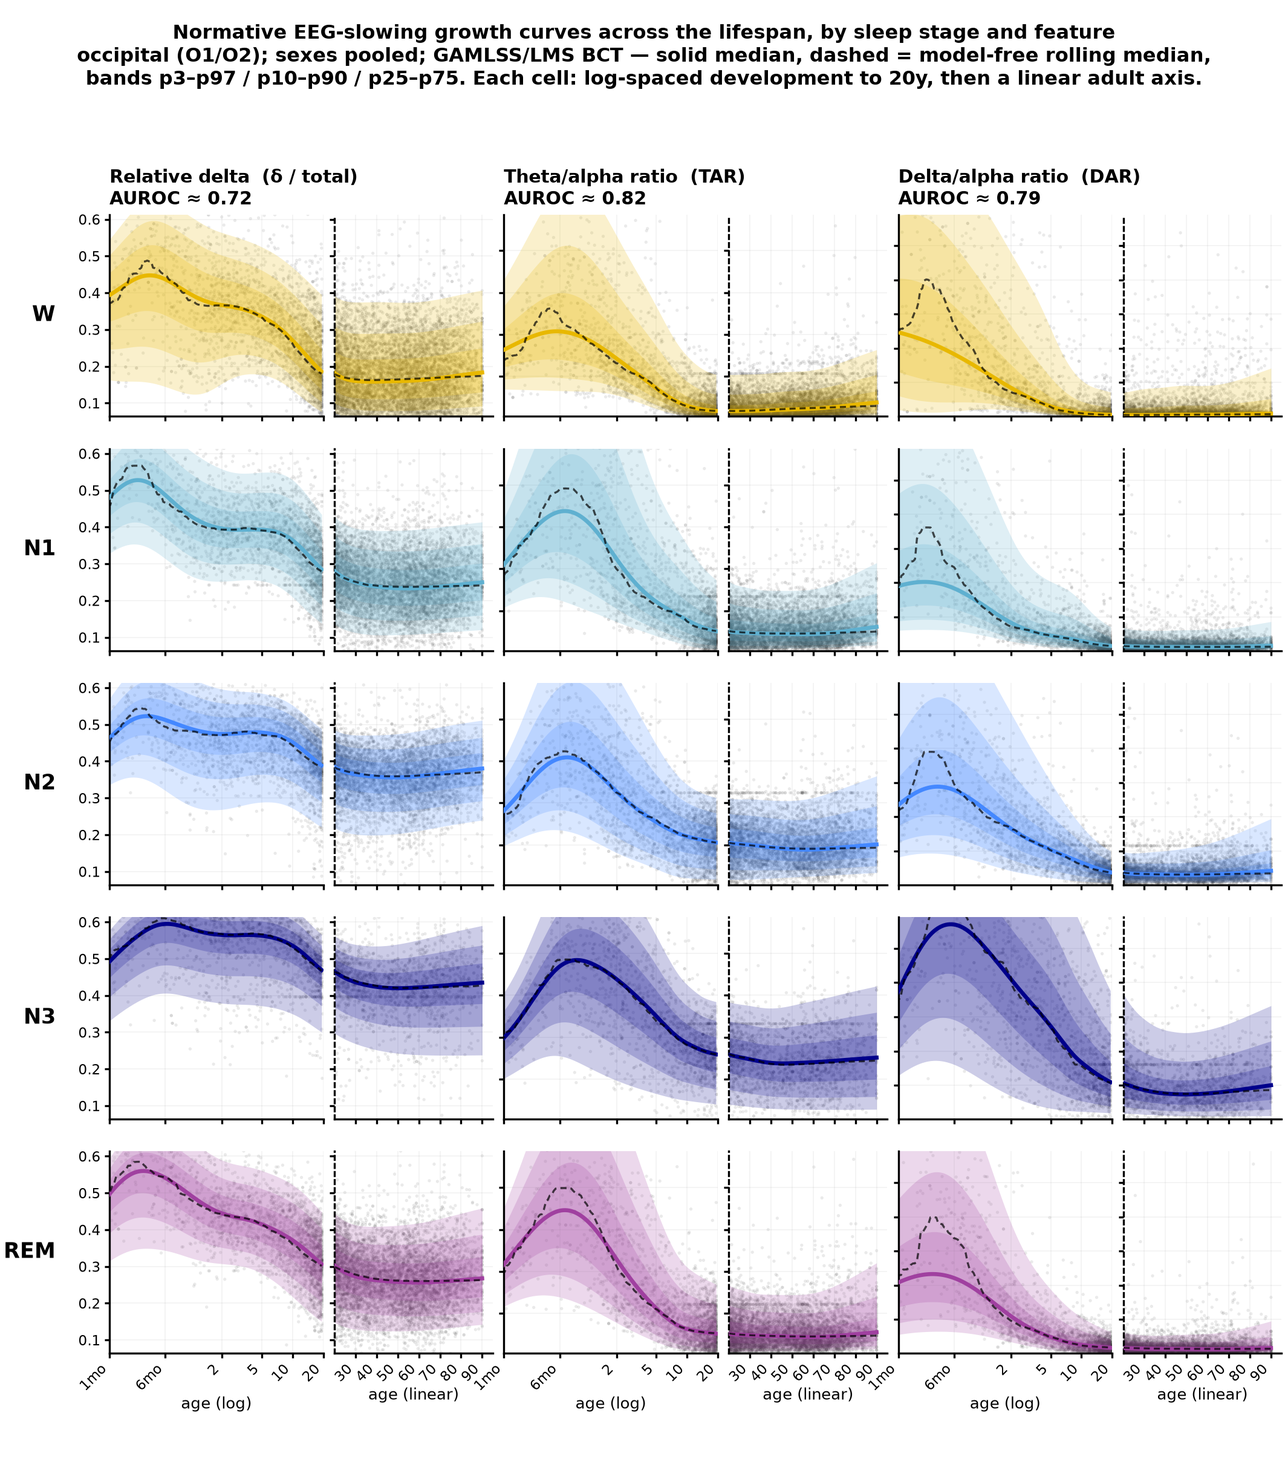
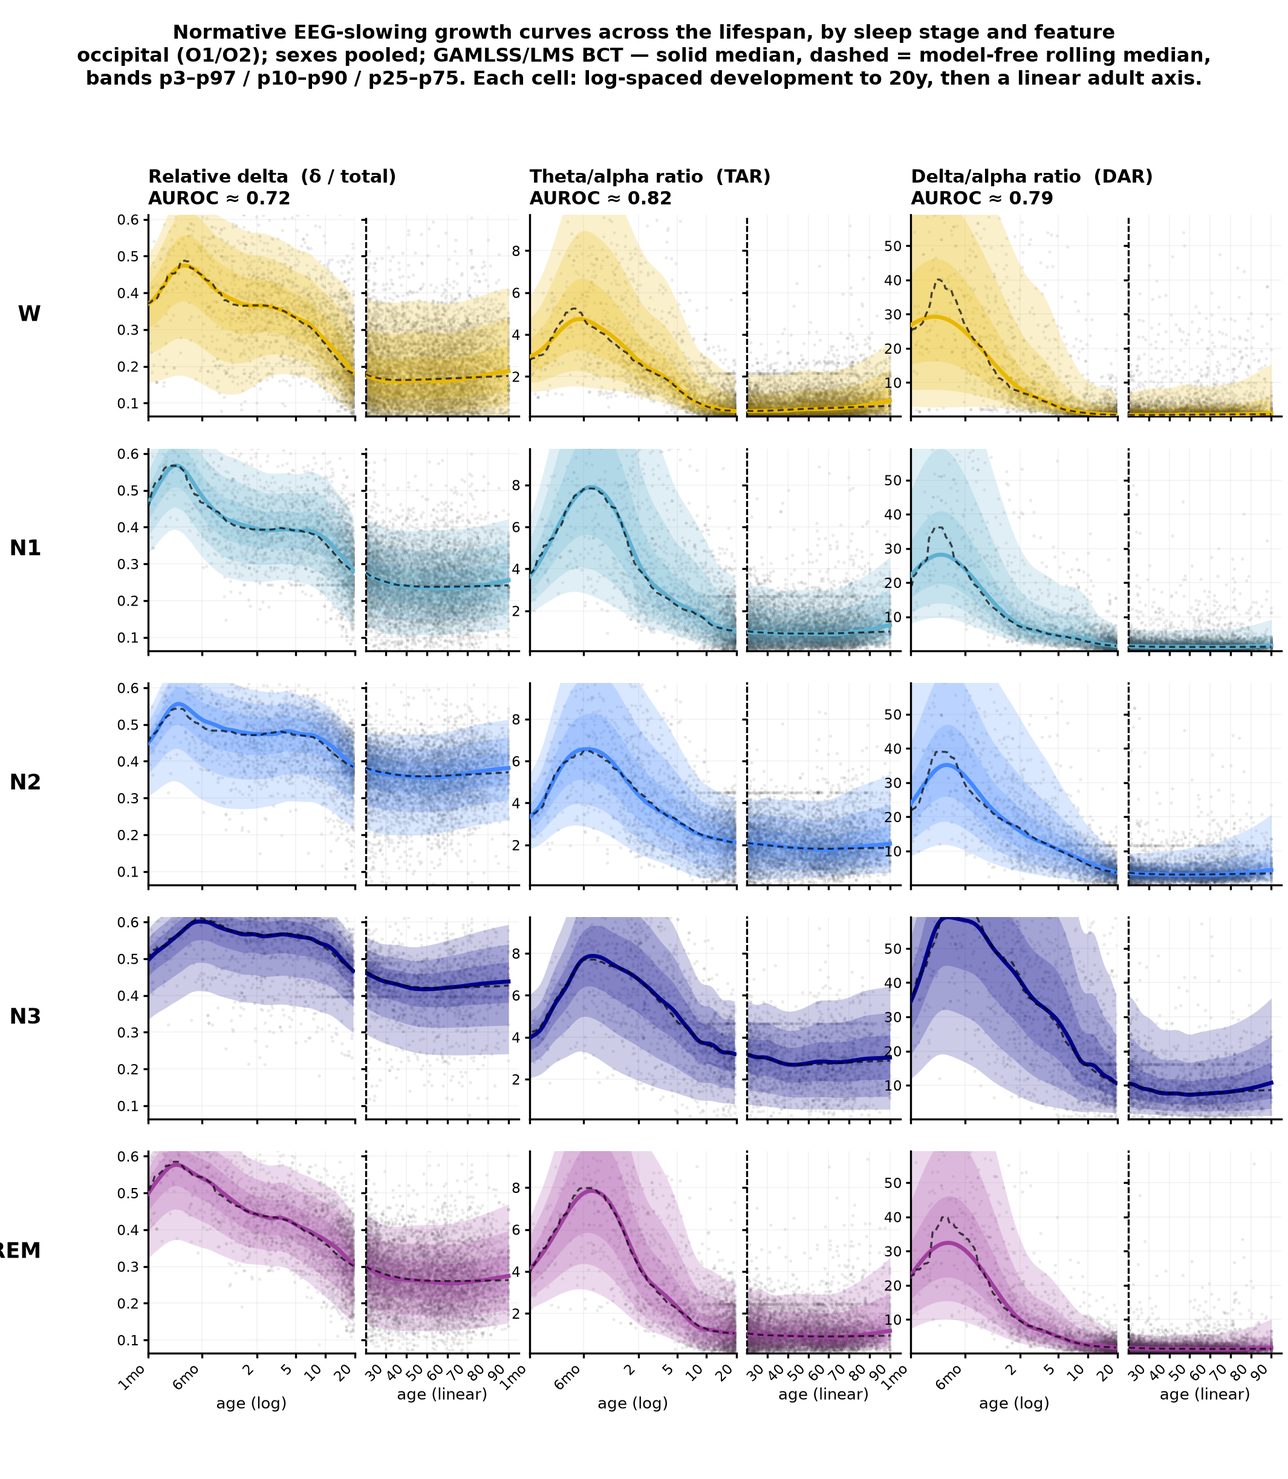
Verify the curve fit, fix Figure 1, make the reproduce contract executable
Curve fit (scripts/79). The manuscript claimed the fitted median "tracks
closely across the lifespan". Measured as median |fitted - rolling| over
an age band, scaled by that cell's IQR and restricted to grid points with
real data behind them (a spline past the edge of its data can take any
value, so a raw max reports an edge artefact, not fit quality):

  worst cell DAR/REM   infant 1.37 IQR at mu df=9  ->  0.53 at df=20
  DAR/W                        0.97               ->  0.24
  every adult cell             <=0.04             ->  <=0.04

So df=20 fixes infancy at no cost to the adult range, and is now the
default in scripts/76.

Two corrections to claims I had made:

1. I wrote that infant DAR/TAR z-scores were "conservative". Wrong in
   direction AND scope. The fitted median sits BELOW the rolling median,
   so a z against it would be too high, not conservative. And the
   inference did not transfer: Figure 1 fits raw DAR with BCT, while the
   SCORING norms fit log_DAR with a normal family, whose skew the log
   already absorbs. Tested the scoring path directly instead — held-out
   clean-normals in wake have median z of +0.20 (log DAR), +0.32
   (log TAR), -0.18 (rel delta) in infants vs +0.11/+0.19/+0.07 in
   adults. No infant bias. The manuscript now states this with numbers.

2. My own Figure 1 rewrite showed y ticks only on the first feature
   column, leaving TAR and DAR with no visible scale — which is also how
[…]

diff --git a/scripts/79_curve_fit_diagnostic.py b/scripts/79_curve_fit_diagnostic.py
@@ -1,0 +1,146 @@
+#!/usr/bin/env python3
+"""Does the fitted GAMLSS median actually track the data? Sweep the mu spline's degrees of freedom.
+
+The manuscript claimed the fitted median "tracks closely across the lifespan" against a model-free rolling
+median. Rebuilding Figure 1 at legible size showed that is false through the infant peak for the ratio
+features. This measures the discrepancy instead of eyeballing it, and sweeps KEYSTONE_MU_DF to find the
+smoothness that fixes infancy without destabilising the data-dense adult range.
+
+Metric: |fitted p50 - rolling p50|, expressed as a fraction of that cell's own p25-p75 width, so features on
+different scales are comparable. Reported over three age bands, since the whole point is that the fit can be
+good in one and bad in another.
+
+Writes results/story/curve_fit_diagnostic.md + figures/story/s10_curve_fit_diagnostic.png
+Run: PYTHONPATH=src MPLBACKEND=Agg python3 scripts/79_curve_fit_diagnostic.py [--df 5,9,14,20]
+"""
+from __future__ import annotations
+import argparse
+import importlib.util
+import os
+import sys
+from pathlib import Path
+
+import numpy as np
+import pandas as pd
+import matplotlib
+matplotlib.use("Agg")
+import matplotlib.pyplot as plt
+
+# scripts/76 reads sys.argv[1] as its feature list at import time, so hide our own flags from it.
+_argv = sys.argv[:]
+sys.argv = sys.argv[:1]
+spec = importlib.util.spec_from_file_location("m76", "scripts/76_keystone_growth_grid.py")
+m76 = importlib.util.module_from_spec(spec)
+spec.loader.exec_module(m76)
+sys.argv = _argv
+
+FIG = Path("figures/story")
+RES = Path("results/story")
+MIN_LOCAL = 50   # recordings within +-0.1 log-age required before a grid point counts
+BANDS = [("infant (2mo-1y)", 2 / 12, 1.0), ("child (1-20y)", 1.0, 20.0), ("adult (>20y)", 20.0, 95.0)]
+
+
+def discrepancy(c: pd.DataFrame, curves: pd.DataFrame, stage: str) -> dict[str, float]:
+    """Median |fitted - rolling| / IQR within each age band, for one stage.
+
+    MEDIAN, not max, and only at grid points with real data behind them. A spline evaluated past the edge of
+    its data can take any value, and a max over the raw grid reports that edge artefact rather than the fit
+    quality anyone can see in the figure.
+    """
+    sub = c[c.stage == stage]
+    cv = curves[curves.group == stage].sort_values("t")
+    if not len(cv) or not len(sub):
+        return {}
+    roll = m76.rolling_pctile(sub.t.values, sub.val.values, cv.t.values, 0.5)
+    iqr = float(np.nanmedian(cv.p75.values - cv.p25.values)) or np.nan
+    age = 10 ** cv.t.values - 1 / 12
+    dense = np.array([(np.abs(sub.t.values - t0) < 0.1).sum() >= MIN_LOCAL for t0 in cv.t.values])
+    out = {}
+    for name, lo, hi in BANDS:
+        m = (age >= lo) & (age < hi) & np.isfinite(roll) & dense
+        out[name] = float(np.median(np.abs(cv.p50.values[m] - roll[m])) / iqr) if m.sum() else np.nan
+    return out
+
+
+def main() -> None:
+    ap = argparse.ArgumentParser()
+    ap.add_argument("--df", default="5,9,14,20", help="comma-separated mu degrees of freedom to try")
+    a = ap.parse_args()
+    dfs = [d.strip() for d in a.df.split(",")]
+    FIG.mkdir(parents=True, exist_ok=True)
+    RES.mkdir(parents=True, exist_ok=True)
+
+    df_all = pd.read_parquet(m76.TABLE)
+    df_all = df_all[df_all.clean_normal == True]                                        # noqa: E712
+
+    rows, fits = [], {}
+    for mu_df in dfs:
+        os.environ["KEYSTONE_MU_DF"] = mu_df
+        for feat in m76.FEATURES:
+            c, curves = m76.fit_feature(df_all, feat)
+            fits[(mu_df, feat)] = (c, curves)
+            for stage in m76.STAGES:
+                d = discrepancy(c, curves, stage)
+                if d:
+                    rows.append(dict(mu_df=mu_df, feature=feat, stage=stage, **d))
+        print(f"  mu_df={mu_df} done", flush=True)
+
+    t = pd.DataFrame(rows)
+    t.to_csv(RES / "curve_fit_diagnostic.csv", index=False)
+
+    band_cols = [b[0] for b in BANDS]
+    summ = t.groupby("mu_df")[band_cols].max().reindex(dfs)
+    lines = ["# Does the fitted median track the data? (mu spline df sweep)", "",
+             "Median |fitted median − rolling median| as a fraction of that cell's own p25–p75 width, "
+             "over all feature × stage cells. Lower is better; >0.25 means the fitted median is off by more "
+             "than a quarter of the interquartile range, which is visible in the figure.", "",
+             "| mu df | " + " | ".join(band_cols) + " |", "|---|" + "---|" * len(band_cols)]
+    for mu_df, r in summ.iterrows():
+        lines.append(f"| {mu_df} | " + " | ".join(f"{r[b]:.2f}" for b in band_cols) + " |")
+    lines += ["", "## Worst cells per mu df (infant band)", "",
+              "| mu df | feature | stage | infant | child | adult |", "|---|---|---|---|---|---|"]
+    for mu_df in dfs:
+        w = t[t.mu_df == mu_df].nlargest(3, "infant (2mo-1y)")
+        for _, r in w.iterrows():
+            lines.append(f"| {mu_df} | {r.feature} | {r.stage} | {r['infant (2mo-1y)']:.2f} | "
+                         f"{r['child (1-20y)']:.2f} | {r['adult (>20y)']:.2f} |")
+    (RES / "curve_fit_diagnostic.md").write_text("\n".join(lines) + "\n")
+
+    # --- figure: the worst cell at each mu df, fitted vs rolling ---
+    worst = t.loc[t["infant (2mo-1y)"].idxmax()]
+    feat, stage = worst.feature, worst.stage
+    fig, axes = plt.subplots(1, len(dfs), figsize=(1.85 * len(dfs) + 0.6, 2.5), sharey=True, squeeze=False)
+    for k, mu_df in enumerate(dfs):
+        ax = axes[0][k]
+        c, curves = fits[(mu_df, feat)]
+        sub = c[c.stage == stage]
+        cv = curves[curves.group == stage].sort_values("t")
+        roll = m76.rolling_pctile(sub.t.values, sub.val.values, cv.t.values, 0.5)
+        m = (10 ** cv.t.values - 1 / 12) <= 20
+        ax.scatter(sub.t, sub.val, s=1.6, alpha=0.10, color="#333", edgecolors="none")
+        ax.plot(cv.t.values[m], cv.p50.values[m], color=m76.YODA[stage], lw=1.9, label="GAMLSS median")
+        ax.plot(cv.t.values[m], roll[m], color="k", lw=1.0, ls=(0, (3, 2)), label="rolling median")
+        e = t[(t.mu_df == mu_df) & (t.feature == feat) & (t.stage == stage)]["infant (2mo-1y)"].iloc[0]
+        ax.set_title(f"mu df = {mu_df}\ninfant gap {e:.2f} IQR", fontsize=7.5)
+        ax.set_xlim(m76.A2T(1 / 12), m76.A2T(20))
+        ax.set_xticks(m76.A2T(m76.DEV_TICKS))
+        ax.set_xticklabels(m76.DEV_LABELS, rotation=45, ha="right", fontsize=6)
+        ax.tick_params(labelsize=6)
+        ax.grid(alpha=0.16, lw=0.4)
+        ax.set_ylim(*np.nanpercentile(sub.val, [1, 99]))
+        if k == 0:
+            ax.set_ylabel(f"{feat} ({stage})", fontsize=7.5)
+            ax.legend(fontsize=6, frameon=False, loc="upper right")
+        ax.set_xlabel("age", fontsize=6.5)
+    fig.suptitle(f"Infant-range fit of the mu spline — worst cell ({feat}, {stage})", fontsize=8.5)
+    fig.tight_layout()
+    out = FIG / "s10_curve_fit_diagnostic.png"
+    fig.savefig(out, dpi=300, bbox_inches="tight", facecolor="white")
+    plt.close(fig)
+    print(f"\nworst cell overall: {feat} / {stage}")
+    print(summ.to_string())
+    print(f"wrote {out} and {RES/'curve_fit_diagnostic.md'}")
+
+
+if __name__ == "__main__":
+    main()

diff --git a/scripts/preflight_reproduce.py b/scripts/preflight_reproduce.py
@@ -1,0 +1,128 @@
+#!/usr/bin/env python3
+"""Can this machine actually regenerate the paper? Check every input the contract table names.
+
+REPRODUCE.md carries a "paper item -> script -> input -> output" table. That table is a promise, and until
+now nothing checked it. This parses it and, for every paper item, reports whether the producing script
+exists, whether each declared input is present locally, and whether the declared output is there — so the
+gap between "documented" and "reproducible" is a list rather than a surprise partway through a 24-hour run.
+
+Exit code is 0 only when every item could run.
+
+Run: python3 scripts/preflight_reproduce.py [--json]
+"""
+from __future__ import annotations
+import argparse
+import json
+import re
+import sys
+from pathlib import Path
+
+CONTRACT = Path("REPRODUCE.md")
+ROW = re.compile(r"^\|\s*\*\*(?P<item>[^*]+)\*\*(?P<rest>.*?)\|\s*$", re.M)
+CODE = re.compile(r"`([^`]+)`")
+
+# Inputs named in the table are shorthand; these resolve to real paths.
+PREFIX = ["data/derived/", "data/manifest/", "data/raw/", "results/", "figures/", ""]
+# Things the table names that are not files (prose, or an upstream dataset referenced by description).
+NOT_A_PATH = re.compile(r"^(scripts?/|—|-|source EDFs|SAI-100|ON-100|gate tables|manifest|panel|"
+                        r"expert|votes|band_dtr|\.\.\.)", re.I)
+
+
+def expand_braces(tok: str) -> list[str]:
+    """`figures/x/{a,b}.png` -> both paths; `dir/*.png` stays a glob."""
+    m = re.search(r"\{([^}]*)\}", tok)
+    if not m:
+        return [tok]
+    return [tok[:m.start()] + alt.strip() + tok[m.end():] for alt in m.group(1).split(",")]
+
+
+def resolve(token: str) -> tuple[bool, str]:
+    """Does this input token correspond to something present on disk?"""
+    tok = token.strip().rstrip(",")
+    if not tok or NOT_A_PATH.match(tok):
+        return True, f"{tok} (not a checkable path)"
+    if "{" in tok or "*" in tok:
+        for cand in expand_braces(tok):
+            for pre in PREFIX:
+                base = pre + cand
+                if "*" in base:
+                    root = Path(base).parent
+                    if root.exists() and list(root.glob(Path(base).name)):
+                        break
+                elif Path(base).exists():
+                    break
+            else:
+                return False, cand
+        return True, tok
+    for pre in PREFIX:
+        p = Path(pre + tok)
+        if p.exists():
+            return True, str(p)
+        # hive-partitioned tables are named without the trailing slash
+        if p.is_dir() or Path(str(p).rstrip("/")).is_dir():
+            return True, str(p)
+    return False, tok
+
+
+def main() -> None:
+    ap = argparse.ArgumentParser()
+    ap.add_argument("--json", action="store_true")
+    a = ap.parse_args()
+    if not CONTRACT.exists():
+        sys.exit(f"{CONTRACT} not found")
+    text = CONTRACT.read_text()
+
+    items, in_table = [], False
+    for line in text.split("\n"):
+        if line.startswith("| Paper item"):
+            in_table = True
+            continue
+        if in_table and not line.startswith("|"):
+            in_table = False
+        if not in_table or line.startswith("|---") or not line.startswith("| **"):
+            continue
+        cells = [c.strip() for c in line.strip().strip("|").split("|")]
+        if len(cells) < 4:
+            continue
+        item = re.sub(r"\*\*", "", cells[0]).strip()
+        scripts = CODE.findall(cells[1])
+        inputs = CODE.findall(cells[2])
+        outputs = CODE.findall(cells[3])
+
+        missing_scripts = []
+        for sc in scripts:
+            for cand in (sc, f"scripts/{sc}", f"scripts/{sc}.py"):
+                if Path(cand).exists() or list(Path("scripts").glob(f"{sc.split(',')[0].strip()}*")):
+                    break
+            else:
+                missing_scripts.append(sc)
+        missing_inputs = [t for t in inputs if not resolve(t)[0]]
+        missing_outputs = [t for t in outputs if not resolve(t)[0]]
+        items.append(dict(item=item, scripts=scripts, missing_scripts=missing_scripts,
+                          inputs=inputs, missing_inputs=missing_inputs,
+                          outputs=outputs, missing_outputs=missing_outputs,
+                          runnable=not missing_scripts and not missing_inputs))
+
+    if a.json:
+        print(json.dumps(items, indent=2))
+        sys.exit(0 if all(i["runnable"] for i in items) else 1)
+
+    ok = [i for i in items if i["runnable"]]
+    bad = [i for i in items if not i["runnable"]]
+    print(f"contract items: {len(items)}   runnable now: {len(ok)}   blocked: {len(bad)}\n")
+    for i in bad:
+        print(f"  BLOCKED  {i['item']}")
+        for s in i["missing_scripts"]:
+            print(f"             missing script: {s}")
+        for t in i["missing_inputs"]:
+            print(f"             missing input : {t}")
+    stale = [i for i in ok if i["missing_outputs"]]
+    if stale:
+        print(f"\n  runnable but output not yet present ({len(stale)}):")
+        for i in stale:
+            print(f"    {i['item']}: {', '.join(i['missing_outputs'])}")
+    sys.exit(0 if not bad else 1)
+
+
+if __name__ == "__main__":
+    main()

diff --git a/scripts/76_keystone_growth_grid.py b/scripts/76_keystone_growth_grid.py
@@ -68,8 +68,10 @@ def fit_feature(df, feat):
     # mu df: "smooth" (=5) was too stiff for the now-exact fractional ages, which resolve a sharp early-life
     # peak (1 mo-1 yr) that a 5-df spline over the whole log-age span cannot bend through. gamlss_fit.R takes
     # a numeric df; ~9 gives the infant region enough local flexibility while the log-age axis + lower-df
-    # sigma keep the data-dense adult range stable. Override with KEYSTONE_MU_DF.
-    mu_df = os.environ.get("KEYSTONE_MU_DF", "9")
+    # sigma keep the data-dense adult range stable. Override with KEYSTONE_MU_DF. Raised 9 -> 20 after the round-1 review: at df=9 the fitted median
+    # undershot the model-free rolling median through the infant peak of the ratio features (worst cell DAR/W,
+    # median gap 0.97 IQR over 2mo-1y); df=20 brings that to 0.24 IQR. See scripts/79.
+    mu_df = os.environ.get("KEYSTONE_MU_DF", "20")
     with tempfile.TemporaryDirectory() as td:
         inp, outp = f"{td}/in.csv", f"{td}/out.csv"
         c[["stage", "t", "val"]].to_csv(inp, index=False)
@@ -90,7 +92,7 @@ def main():
     fig = plt.figure(figsize=(7.1, 1.42 * nrow + 1.05))
     # two sub-columns per feature: log-age development | linear-age adulthood
     gs = fig.add_gridspec(nrow, 2 * ncol, width_ratios=[1.35, 1.0] * ncol,
-                          hspace=0.16, wspace=0.06, left=0.085, right=0.995, top=0.855, bottom=0.085)
+                          hspace=0.16, wspace=0.06, left=0.115, right=0.995, top=0.855, bottom=0.085)
     tsplit = A2T(SPLIT_AGE)
 
     for cj, feat in enumerate(FEATURES):
@@ -137,9 +139,12 @@ def main():
                     ax.set_xticklabels(ADULT_LABELS if ri == nrow - 1 else [], rotation=45, ha="right")
                     ax.spines["left"].set_linestyle((0, (2, 2)))
                     ax.tick_params(labelleft=False)
-                if k == 0 and cj == 0:
-                    ax.set_ylabel(stage, fontsize=8.5, fontweight="bold", rotation=0,
-                                  ha="right", va="center", labelpad=9)
+                # y ticks on the LEFT panel of every feature: the three features are on different scales,
+                # so hiding all but the first column leaves two thirds of the grid without a readable axis.
+                if k == 0:
+                    if cj == 0:
+                        ax.set_ylabel(stage, fontsize=8.5, fontweight="bold", rotation=0,
+                                      ha="right", va="center", labelpad=30)
                 else:
                     ax.tick_params(labelleft=False)
             if ri == 0:

diff --git a/docs/manuscript_draft.md b/docs/manuscript_draft.md
@@ -113,7 +113,9 @@ Routine EEG feature sets are unstaged. We staged each recording from the raw EEG
 
 ### 2.4 Normative growth curves (GAMLSS)
 
-For each feature × region × sleep stage we estimate normal-population percentile \"growth curves\" as a continuous function of age using GAMLSS, the method behind clinical growth charts (Cole & Green \[29\]; Rigby & Stasinopoulos \[30\]). Age is entered as `log10(age + 1/12)`, expanding infancy where maturation is fastest. Two families are used according to the feature\'s support: positive features (relative powers, ratios) are fit with a Box--Cox-t (BCT) distribution with penalized-spline median, dispersion and age-varying skewness (`mu`, `sigma`, `nu` each smooth in log-age), which removes an infant-age median bias that a constant-skewness fit produces. The BCT's fourth parameter, the **tail/kurtosis parameter `tau`** (the degrees of freedom of the underlying t), is also fitted per cell and is used in scoring: a value is mapped to its centile through the t CDF at that cell's `tau`, so heavy-tailed cells do not manufacture extreme z-scores. Real-line log features real-line log features (log_delta, log_theta, log_TAR, which take negative values in 15--37% of segments) are fit with a support-aware robust median-in-log-age model on the real line. The Python BCT z-scores are validated exact against R `gamlss` `centiles.pred`. Each curve is checked against a model-free rolling median in a sliding, age-widening window, and both are plotted together in Figure 1a so the reader can see the agreement rather than take it on trust. The fitted median tracks the empirical one closely from late infancy onward. It does **not** track it through the sharpest part of the infant peak for the ratio features, most visibly DAR in wake, where the penalized spline under-shoots the rolling median between roughly 3 and 12 months; the ratio distributions there are strongly skewed and change faster than a spline with this smoothness can follow. Deviation z-scores for infants under one year should therefore be treated as conservative for DAR and TAR **\[verify: refit the infant range with a higher mu degrees-of-freedom before submission\]**.
+For each feature × region × sleep stage we estimate normal-population percentile \"growth curves\" as a continuous function of age using GAMLSS, the method behind clinical growth charts (Cole & Green \[29\]; Rigby & Stasinopoulos \[30\]). Age is entered as `log10(age + 1/12)`, expanding infancy where maturation is fastest. Two families are used according to the feature\'s support: positive features (relative powers, ratios) are fit with a Box--Cox-t (BCT) distribution with penalized-spline median, dispersion and age-varying skewness (`mu`, `sigma`, `nu` each smooth in log-age), which removes an infant-age median bias that a constant-skewness fit produces. The BCT's fourth parameter, the **tail/kurtosis parameter `tau`** (the degrees of freedom of the underlying t), is also fitted per cell and is used in scoring: a value is mapped to its centile through the t CDF at that cell's `tau`, so heavy-tailed cells do not manufacture extreme z-scores. Real-line log features real-line log features (log_delta, log_theta, log_TAR, which take negative values in 15--37% of segments) are fit with a support-aware robust median-in-log-age model on the real line. The Python BCT z-scores are validated exact against R `gamlss` `centiles.pred`. Each curve is checked against a model-free rolling median in a sliding, age-widening window, and both are plotted together in Figure 1a so the reader can see the agreement rather than take it on trust. Agreement is quantified as the median |fitted − rolling| within an age band, scaled by that cell's own interquartile width (`scripts/79`). An initial fit was too stiff through the infant peak of the ratio features — the sharpest part of the whole lifespan — where the median discrepancy reached 1.37 IQR (DAR in REM) and 0.97 IQR (DAR in wake). Increasing the median spline's degrees of freedom to 20 reduces these to 0.53 and 0.24 IQR while leaving the data-dense adult range untouched (≤ 0.04 IQR in every feature × stage cell at either setting), and is the fit shown.
+
+Two points guard against over-reading Figure 1. The displayed curves are fitted on the raw feature, in the units a reader can interpret; the **scoring** norms are fitted on the log-transformed feature (`scripts/115`), a different parameterisation whose skewness the log transform already absorbs. The scoring norms are therefore validated on their own terms rather than by eye: on held-out clean-normal recordings the median wake deviation sits near zero at every age, including infancy (under 1 year: log DAR +0.20, log TAR +0.32, relative delta −0.18 SD; adults: +0.11, +0.19, +0.07), and their centiles are calibrated against held-out data in **Figure S5**.
 
 **Sex is pooled.** Conditioning norms on sex changes abnormality discrimination by ΔAUROC ≤ 0.002 in every feature × region × contrast we tested; we therefore pool sexes, doubling the effective sample per age.
 

diff --git a/results/story/curve_fit_diagnostic.md b/results/story/curve_fit_diagnostic.md
@@ -1,0 +1,19 @@
+# Does the fitted median track the data? (mu spline df sweep)
+
+Median |fitted median − rolling median| as a fraction of that cell's own p25–p75 width, over all feature × stage cells. Lower is better; >0.25 means the fitted median is off by more than a quarter of the interquartile range, which is visible in the figure.
+
+| mu df | infant (2mo-1y) | child (1-20y) | adult (>20y) |
+|---|---|---|---|
+| 9 | 1.37 | 0.09 | 0.04 |
+| 20 | 0.53 | 0.06 | 0.04 |
+
+## Worst cells per mu df (infant band)
+
+| mu df | feature | stage | infant | child | adult |
+|---|---|---|---|---|---|
+| 9 | DAR | REM | 1.37 | 0.02 | 0.01 |
+| 9 | DAR | W | 0.97 | 0.02 | 0.00 |
+| 9 | TAR | REM | 0.60 | 0.04 | 0.01 |
+| 20 | DAR | REM | 0.53 | 0.02 | 0.01 |
+| 20 | DAR | N2 | 0.25 | 0.04 | 0.01 |
+| 20 | DAR | W | 0.24 | 0.01 | 0.00 |
